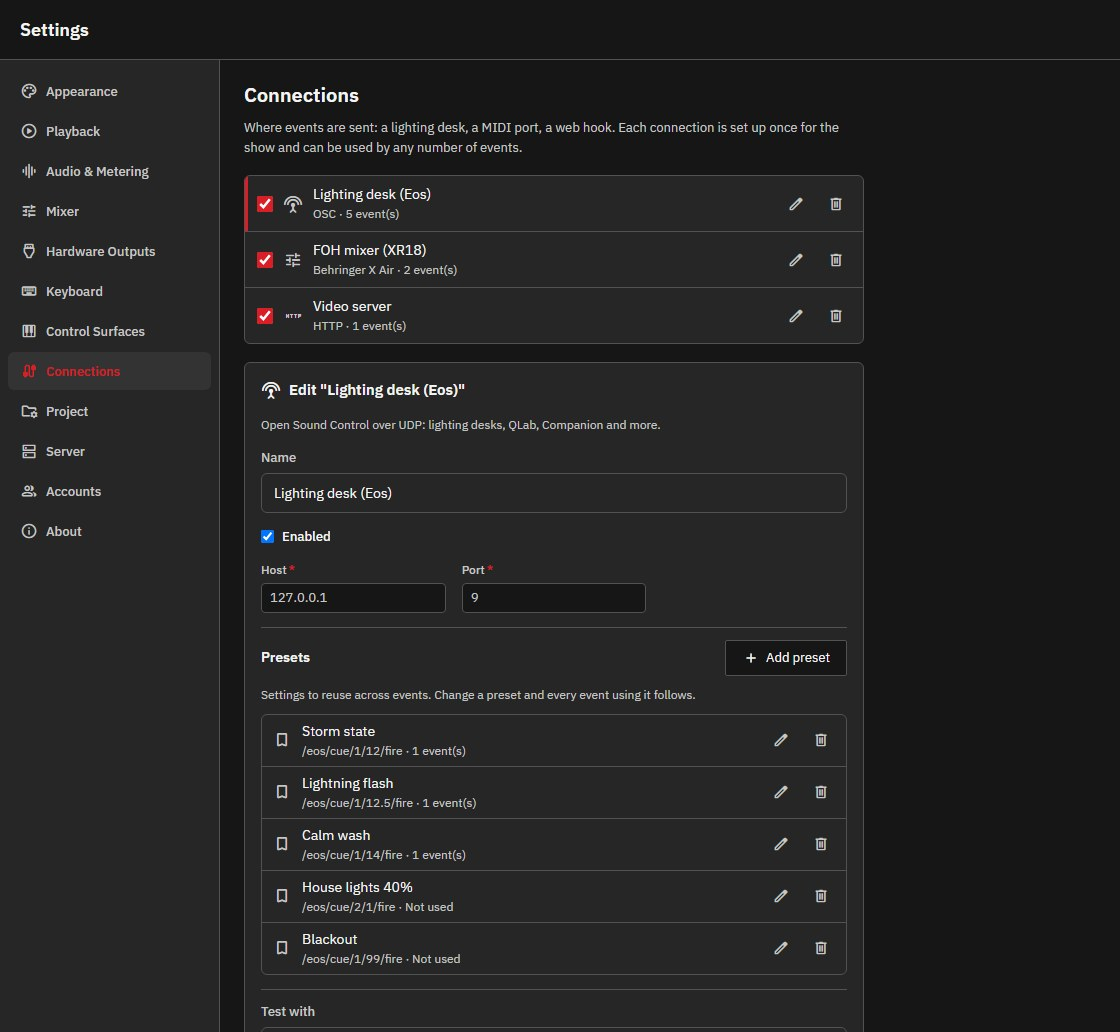
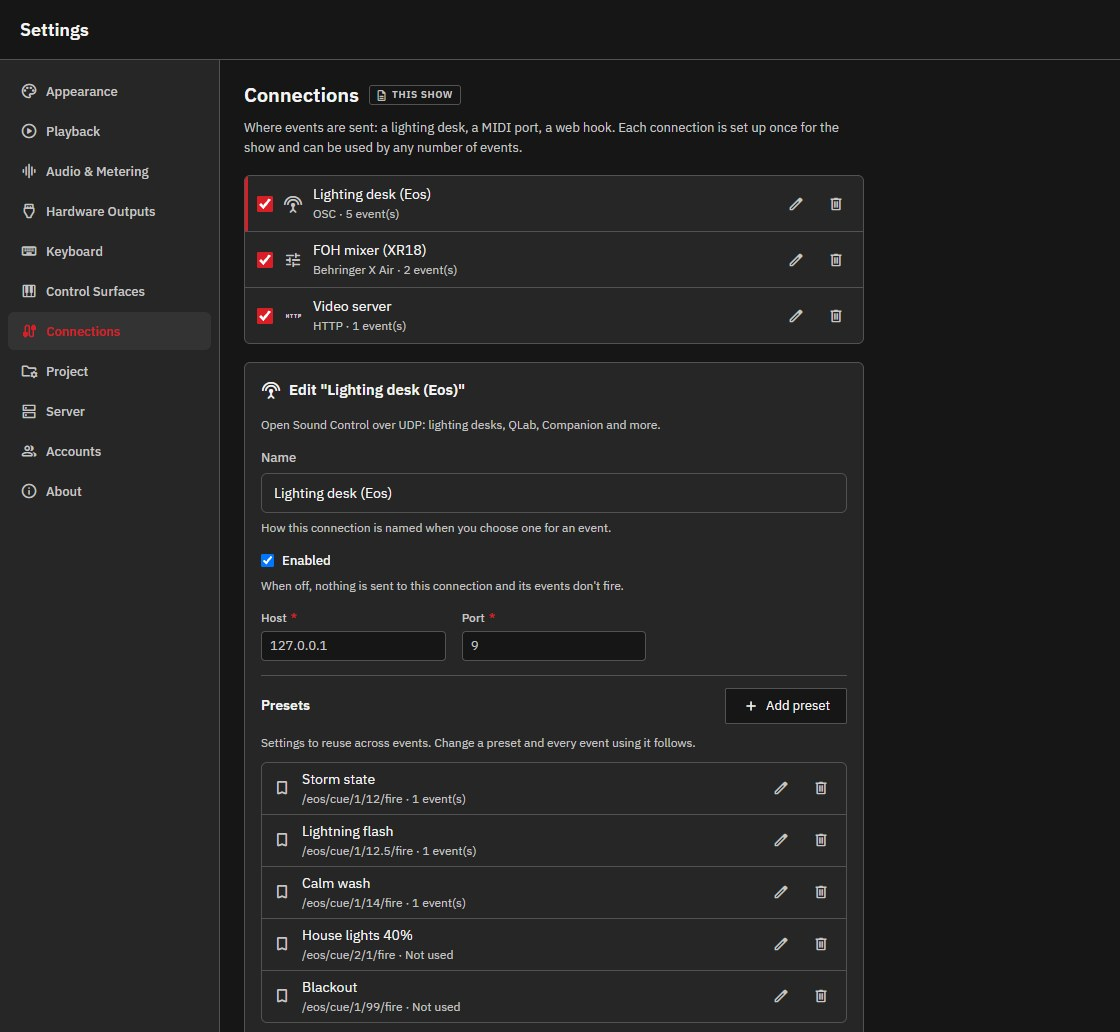
docs: Settings and timeline docs match the app; refresh screenshots
- Docs site: the Settings feature text no longer says language follows you
  between screens (it is per computer) and describes the grouped, badged,
  described page; What's New 2.6 mentions the tidier Settings page in its
  closing fixes line. All 21 locales.
- READMEs and guides use the current pane names (Hardware Outputs,
  Accounts, Control Surfaces, Audio & Metering for the output target), list
  the panes without Mixer, and describe the timeline frame, the help-text
  rule and the owner badges for contributors.
- Twelve screenshots retaken from the built client: events, automation,
  waveformtrimmer, fades, properties, ducking, settings, ltc, connections,
  event_presets, hardware_outputs, users.

diff --git a/README.md b/README.md
@@ -44,7 +44,7 @@ See [packaging and signing](SIGNING.md) for contributor details.
 ## Start a show
 
 1. Launch LivePlay and create a project in a folder for the show.
-2. Open **Settings → Outputs** and map the show's logical outputs to your audio hardware.
+2. Open **Settings → Hardware Outputs** and map the show's logical outputs to your audio hardware.
 3. Import audio or drop files into the playlist.
 4. Select a cue and set its trim points, level, fades and end behavior.
 5. Assign frequently used cues to cart buttons. Configure keyboard or MIDI controls if needed.
@@ -57,12 +57,14 @@ To resize playlist rows without changing the window or playlist width, hover ove
 
 | Setting | What to check |
 |---|---|
-| Outputs | Map **Main Out** to the audience feed and **Preview Out** to headphones. An unmapped Main Out can use the default audio device; an unmapped Preview Out is silent. |
-| Project / Output Target | Select the intended delivery target: EBU R128, Streaming, Radio, Netflix, or Live. This affects target levels and limiting. |
+| Hardware Outputs | Map **Main Out** to the audience feed and **Preview Out** to headphones. An unmapped Main Out can use the default audio device; an unmapped Preview Out is silent. |
+| Audio & Metering / Output target | Select the intended delivery target: EBU R128, Streaming, Radio, Netflix, or Live. This affects target levels and limiting. |
 | Playback / Stop All | The project default is a 1-second Stop All fade, with preview also stopped. Individual cue stops use the cue's stop/fade settings. |
 | Server | Choose the local server or a remote server address. Server boot configuration edits require a restart. |
-| Users | On a shared network, create an administrator account and configure access. With authentication disabled, network clients can use administrative operations. |
-| Appearance / Keyboard / Surfaces | Adjust presentation, keyboard bindings and MIDI controls for the operator and machine. |
+| Accounts | On a shared network, create an administrator account and configure access. With authentication disabled, network clients can use administrative operations. |
+| Appearance / Keyboard / Control Surfaces | Adjust presentation, the mixer layout, keyboard bindings and MIDI controls for the operator and machine. |
+
+Each Settings pane says who its settings belong to (you, this show, this computer or the server), and every setting has a short description under it. In a cue's Properties panel, descriptions sit behind the ⓘ beside a field's label.
 
 Audio plays on the **server computer**. Remote file dialogs and media paths refer to that computer. Check its audio interface, output mapping and media availability before the show.
 

diff --git a/client/README.md b/client/README.md
@@ -42,7 +42,9 @@ Detached cart/mixer windows and playlist-tab or cart-page pop-outs are additiona
 | `locales/` | Application locale JSON |
 | `tests/` | Window-bounds, settings-placement, mixer, accent-palette, open-file and audio-format checks |
 
-Settings panes are Appearance, Playback, Audio, Mixer, Outputs, Keyboard, Surfaces, Connections, Project, Server, Users and About. Keep hardware mapping in Outputs and boot policy in Server; use the ownership guide when adding a field.
+Settings panes are Appearance, Playback, Audio & Metering, Hardware Outputs, Keyboard, Control Surfaces, Connections, Project, Server, Accounts and About (the mixer view lives in Appearance; `#/settings/mixer` still lands there). Keep hardware mapping in Hardware Outputs and boot policy in Server; use the ownership guide when adding a field. Long panes are split into `<h4 class="settings-group-title">` groups, and `SettingsScope.vue` badges who a setting belongs to (you, this show, this computer or the server): on the pane title when the whole pane has one owner, otherwise on each group. Every setting carries a one-line `settings-help` description under it.
+
+The Properties panel's timeline tabs (Playback, Events) share one frame, styled in `assets/styles/timeline.scss`: a toolbar with the tab's tools and `TimelineCursorTools.vue` (cursor time, Preview from cursor), the timeline with the shared ruler (`drawTimeRuler` in `app/utils/waveformRender.ts`), `TimelineNav.vue` for zoom and scroll over `app/composables/useTimelineView.ts`, and an inspector of `.insp-group` sections with `InspectorTimeField.vue` times. A new timeline tab should use the same frame. In the Properties panel, a field's description goes behind `FieldHelp.vue` (an ⓘ beside its label) rather than as a line under it; warnings stay inline. `SchemaForm.vue` takes `help-as="icon"` there and keeps descriptions inline in Settings.
 
 ## Run and package
 

diff --git a/docs/OWNERSHIP_MODEL.md b/docs/OWNERSHIP_MODEL.md
@@ -92,7 +92,7 @@ Detached-window flags are not persisted. Geometry is restored when a window is o
 1. Determine whether it changes the show, server hardware/policy, the person's presentation, or this machine's layout/input.
 2. Add validation at the owning store and make defaults explicit.
 3. Keep runtime annotations separate from saved values.
-4. Update the corresponding client setting and API catalog when externally visible.
+4. Update the corresponding client setting and API catalog when externally visible. On the Settings page, put it in the pane or group whose owner badge (`SettingsScope.vue`: you, this show, this computer, server) matches step 1, with a one-line description under it.
 5. Verify round-trip persistence and multi-client scope where relevant.
 
 Primary implementation: [server configuration](../server/src/core/server_config.cpp), [project state](../server/src/core/project_state.cpp), [user preferences](../server/src/core/user_prefs.cpp), [client preferences](../client/app/composables/usePreferences.ts), [Electron storage](../client/electron/main.js).

diff --git a/docs/BUS_ARCHITECTURE.md b/docs/BUS_ARCHITECTURE.md
@@ -55,7 +55,7 @@ PFL is post-DSP and pre-fader/pre-mute. It lets the operator listen to a muted b
 | Bus output reaches another bus | Binding reflects the terminal route |
 | No output | No hardware destination |
 
-Mappings live in server-owned `outputs.json`; bus output names live in the project. Hardware mapping is edited in **Settings → Outputs**. Bus output choices are edited in the mixer.
+Mappings live in server-owned `outputs.json`; bus output names live in the project. Hardware mapping is edited in **Settings → Hardware Outputs**. Bus output choices are edited in the mixer.
 
 LTC also resolves an output name. An unresolved LTC destination is silent. Do not infer that every unbound output falls back to the main sound card.
 
